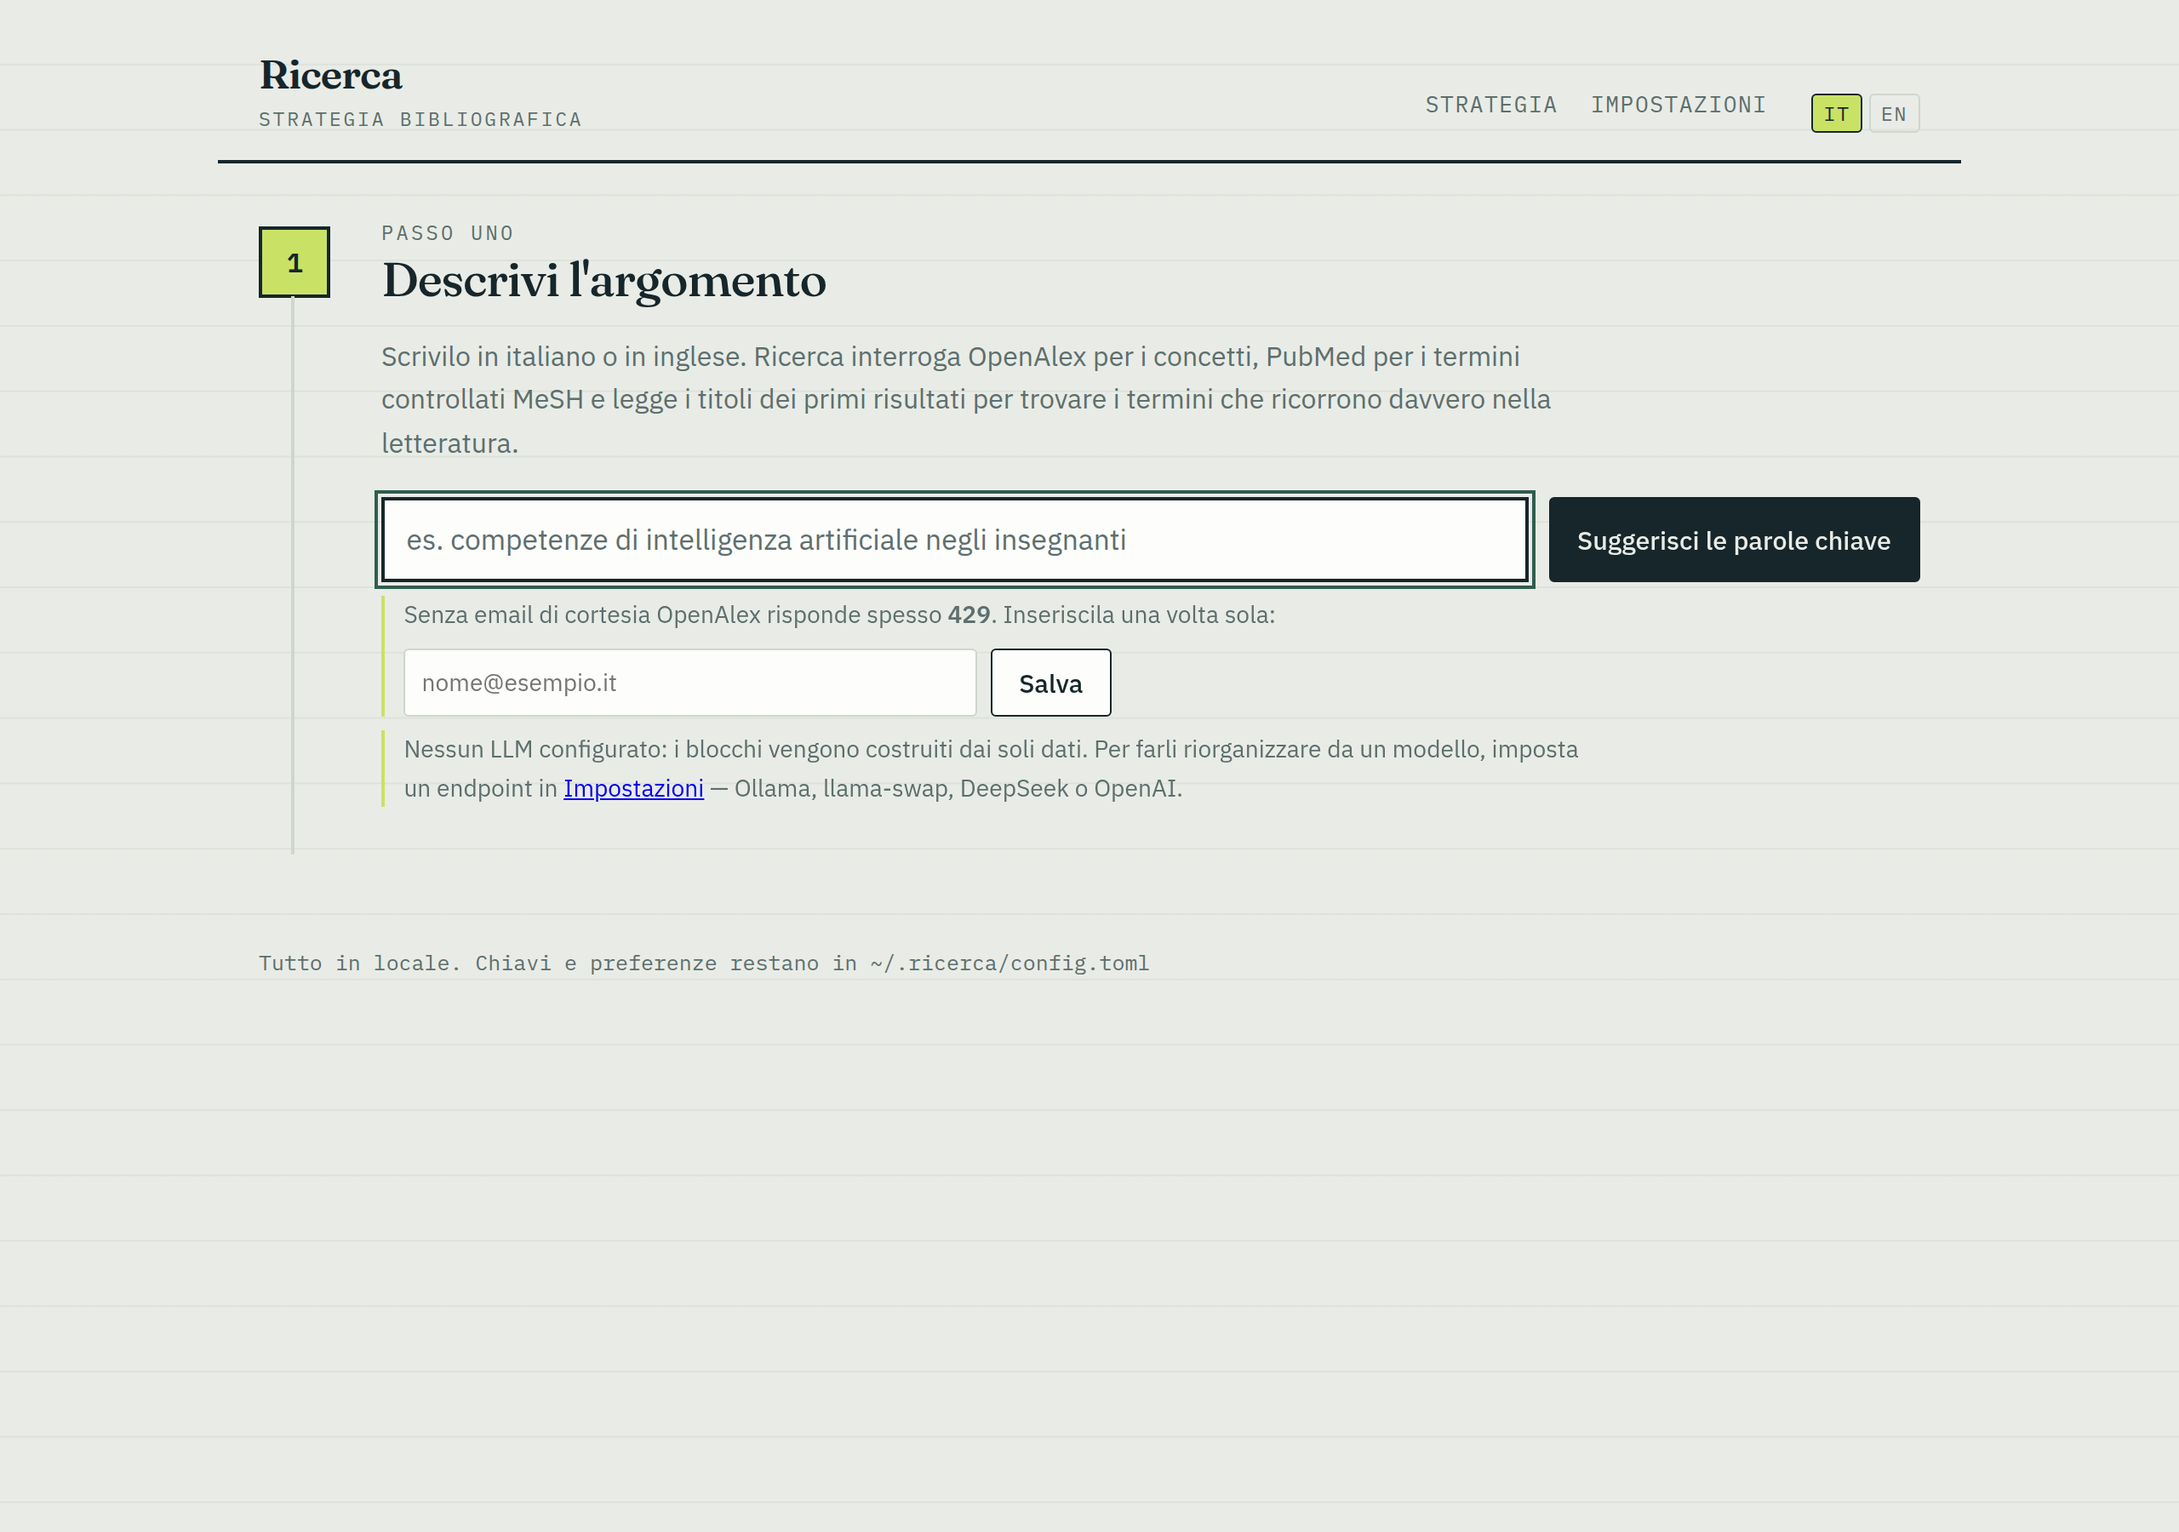
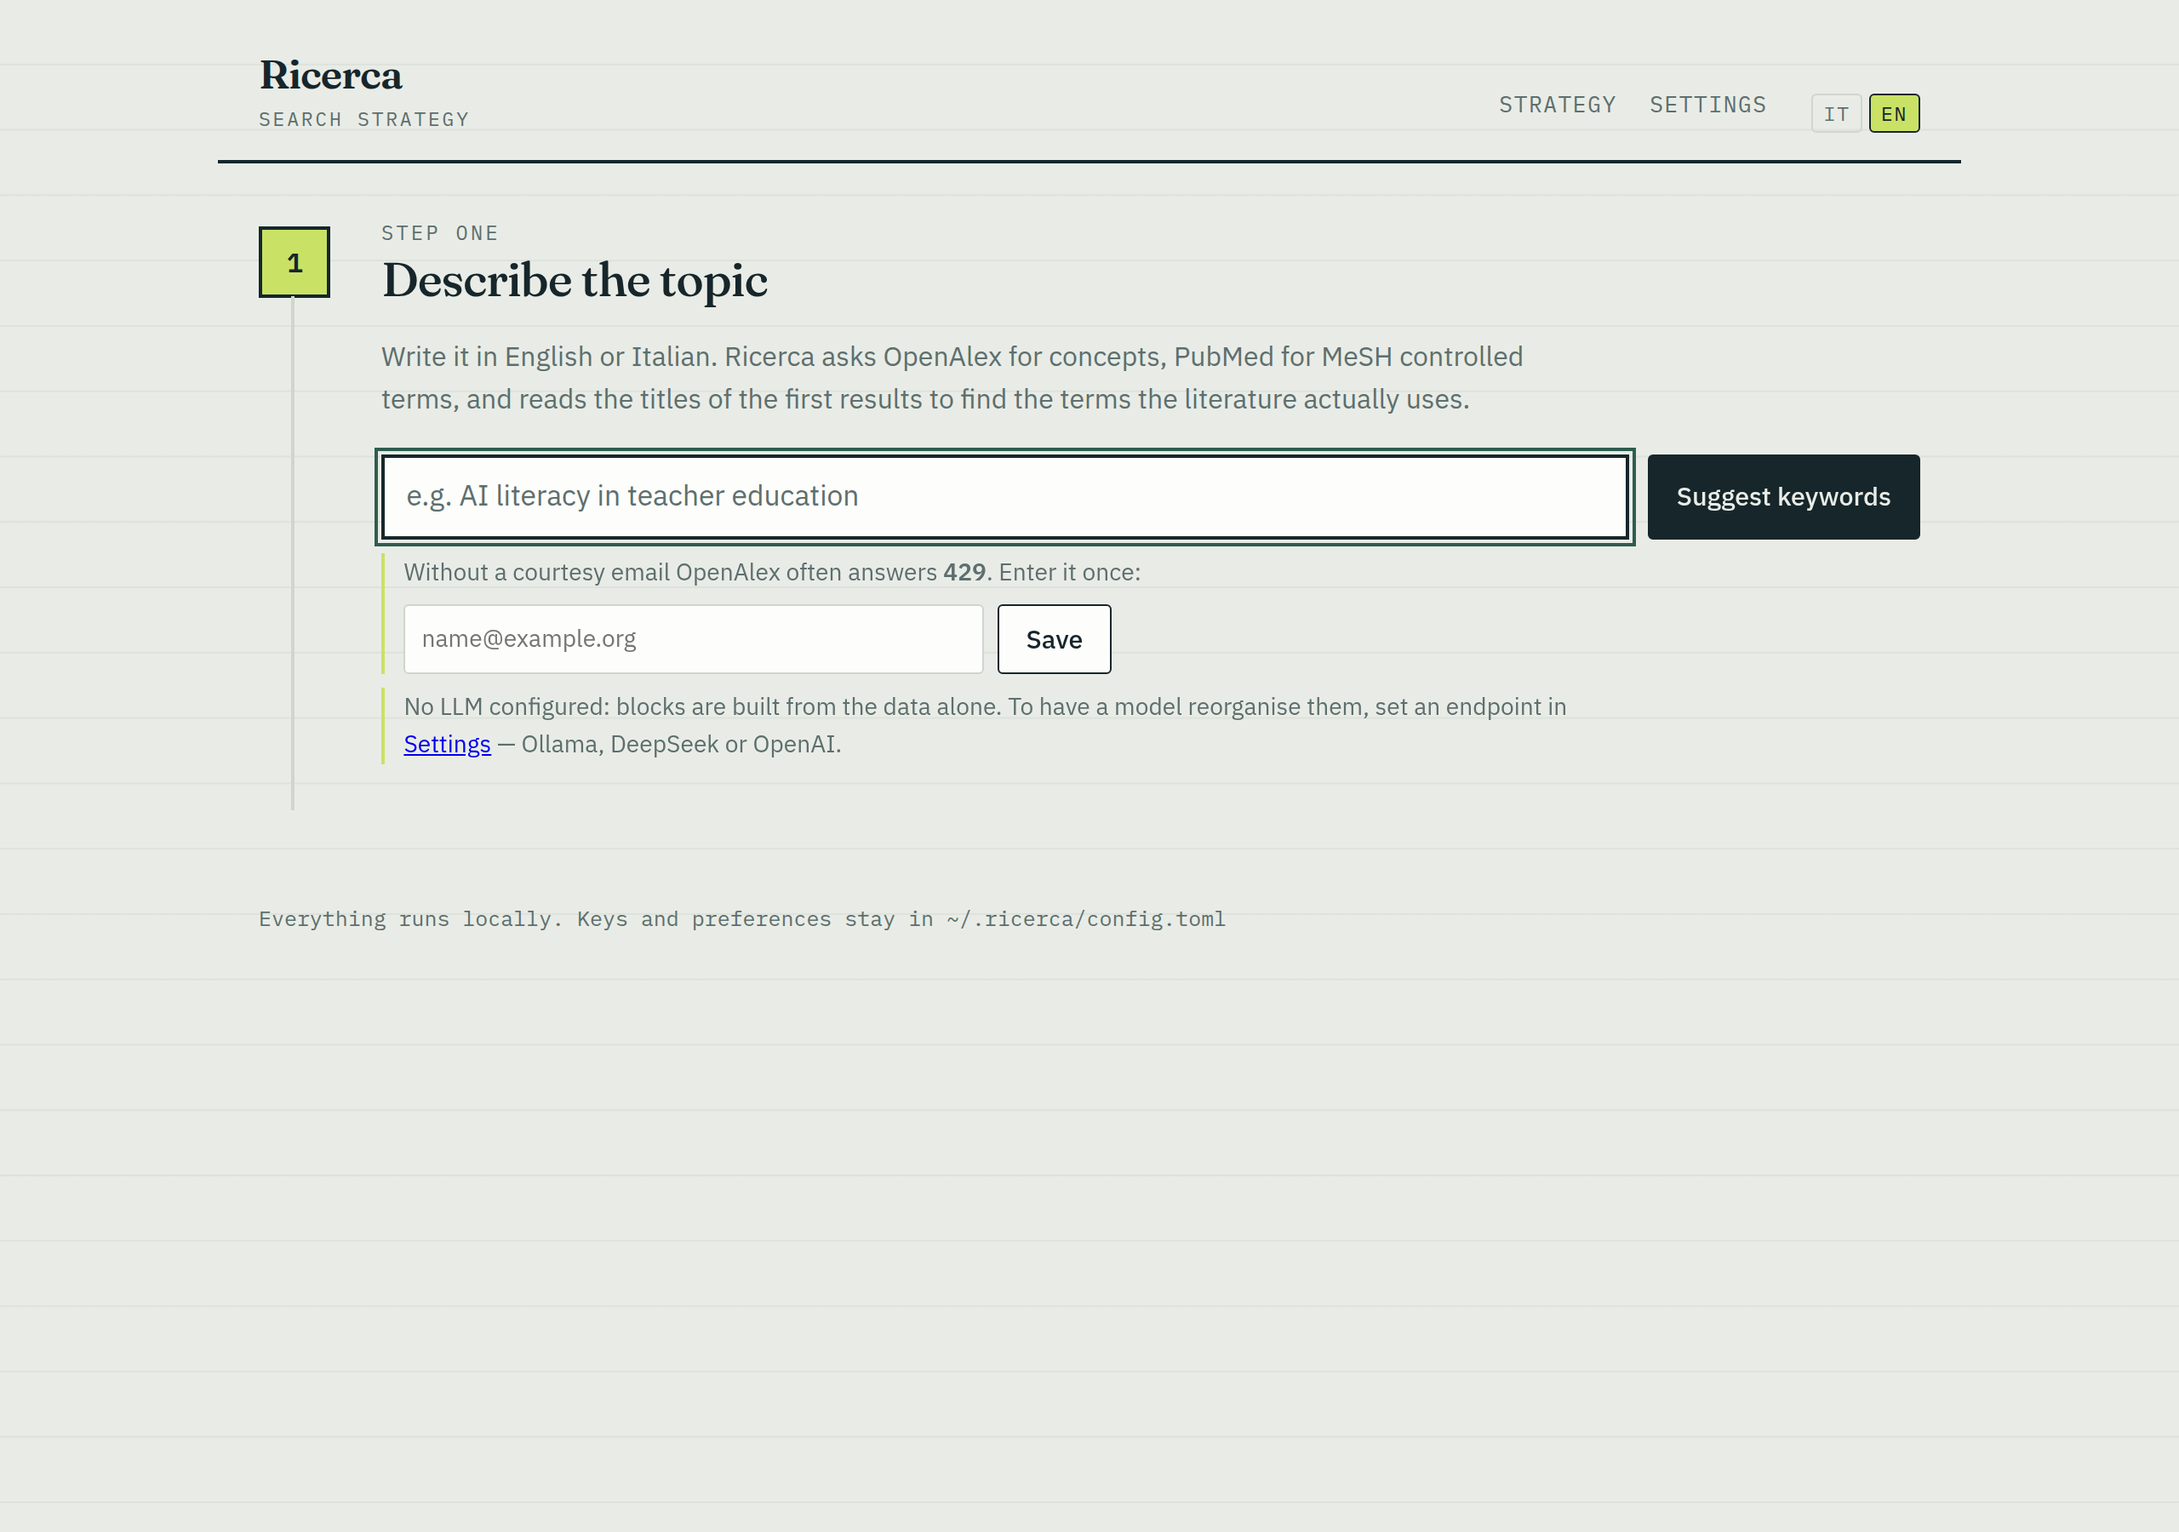
feat: inglese come lingua predefinita, via il preset llama-swap
- la configurazione nasce in inglese; l'italiano si sceglie dalla testata;
- tolto llama-swap dai preset LLM (restano Ollama, DeepSeek, OpenAI);
- tradotto quel che restava in italiano nell'interfaccia inglese: etichette
  dei blocchi costruiti dai dati, etichetta OPAC SBN, e il prompt che ora
  chiede all'LLM etichette nella lingua scelta;
- screenshot rifatti in inglese, con l'italiano come esempio del cambio
  lingua.

73 test.

diff --git a/tests/test_i18n.py b/tests/test_i18n.py
@@ -15,29 +15,29 @@ def test_le_due_lingue_hanno_le_stesse_chiavi():
     assert set(i18n.STRINGS["it"]) == set(i18n.STRINGS["en"])
 
 
-def test_normalize_ricade_sull_italiano():
-    assert i18n.normalize("en") == "en"
-    assert i18n.normalize("de") == "it"
-    assert i18n.normalize(None) == "it"
+def test_normalize_ricade_sull_inglese():
+    assert i18n.normalize("it") == "it"
+    assert i18n.normalize("de") == "en"
+    assert i18n.normalize(None) == "en"
 
 
 def test_il_cambio_lingua_persiste_nella_configurazione():
-    pagina = client.post("/lingua/en", follow_redirects=True)
-    assert "Describe the topic" in pagina.text
-    assert "Suggest keywords" in pagina.text
-    assert config_module.load().lang == "en"
-
     pagina = client.post("/lingua/it", follow_redirects=True)
     assert "Suggerisci le parole chiave" in pagina.text
+    assert config_module.load().lang == "it"
+
+    pagina = client.post("/lingua/en", follow_redirects=True)
+    assert "Describe the topic" in pagina.text
+    assert config_module.load().lang == "en"
 
 
 def test_le_impostazioni_non_azzerano_la_lingua():
-    client.post("/lingua/en")
+    client.post("/lingua/it")
     client.post("/impostazioni", data={
         "mailto": "x@y.it", "llm_base_url": "", "llm_model": "",
         "llm_api_key": "", "core_api_key": "", "s2_api_key": "", "ncbi_api_key": "",
     })
-    assert config_module.load().lang == "en"
+    assert config_module.load().lang == "it"
 
 
 async def test_i_motivi_delle_fonti_seguono_la_lingua():
@@ -61,3 +61,20 @@ async def test_le_note_dei_suggerimenti_seguono_la_lingua():
     async with httpx.AsyncClient() as http:
         result = await keywords.gather("AI literacy", http, Config(lang="en"))
     assert any("no MeSH terms" in nota for nota in result.notes)
+
+
+def test_nessuna_etichetta_di_fonte_e_solo_italiana():
+    from ricerca import sources
+
+    assert sources.BY_ID["opacsbn"].label == "OPAC SBN"
+
+
+@respx.mock
+async def test_il_prompt_dell_llm_chiede_le_etichette_nella_lingua_scelta():
+    from ricerca.llm import LLMClient
+
+    risposta = {"choices": [{"message": {"content": '{"blocks":[{"label":"L","terms":["x"]}]}'}}]}
+    route = respx.post("http://x/v1/chat/completions").mock(return_value=httpx.Response(200, json=risposta))
+    config = Config(llm_base_url="http://x/v1", llm_model="m")
+    await LLMClient(config).blocks_for("topic", [], [], [], "en")
+    assert b"in English" in route.calls[0].request.content

diff --git a/ricerca/i18n.py b/ricerca/i18n.py
@@ -7,7 +7,7 @@ generati dal codice (note, errori delle fonti).
 from __future__ import annotations
 
 LANGS = ("it", "en")
-DEFAULT = "it"
+DEFAULT = "en"
 
 STRINGS: dict[str, dict[str, str]] = {
     "it": {
@@ -31,7 +31,7 @@ STRINGS: dict[str, dict[str, str]] = {
             "Nessun LLM configurato: i blocchi vengono costruiti dai soli dati. "
             "Per farli riorganizzare da un modello, imposta un endpoint in"
         ),
-        "llm_missing_tail": "— Ollama, llama-swap, DeepSeek o OpenAI.",
+        "llm_missing_tail": "— Ollama, DeepSeek o OpenAI.",
         "mailto_active": "Email di cortesia attiva:",
         "mailto_active_tail": "— OpenAlex applica i limiti più larghi.",
         "mailto_placeholder": "nome@esempio.it",
@@ -50,6 +50,9 @@ STRINGS: dict[str, dict[str, str]] = {
             "Nessun termine dalle banche dati questa volta: i blocchi qui sotto partono "
             "dalle parole del topic. Puoi scriverli a mano e aggiornare le stringhe."
         ),
+        "block_main": "Concetto principale",
+        "block_related": "Termini correlati",
+        "llm_labels_language": "in italiano",
         "card_blocks": "Blocchi della ricerca",
         "blocks_help": (
             "Termini separati da virgola: dentro un blocco vanno in OR, i blocchi fra loro "
@@ -147,7 +150,7 @@ STRINGS: dict[str, dict[str, str]] = {
             "No LLM configured: blocks are built from the data alone. To have a model "
             "reorganise them, set an endpoint in"
         ),
-        "llm_missing_tail": "— Ollama, llama-swap, DeepSeek or OpenAI.",
+        "llm_missing_tail": "— Ollama, DeepSeek or OpenAI.",
         "mailto_active": "Courtesy email set:",
         "mailto_active_tail": "— OpenAlex grants the higher rate limits.",
         "mailto_placeholder": "name@example.org",
@@ -166,6 +169,9 @@ STRINGS: dict[str, dict[str, str]] = {
             "No terms from the databases this time: the blocks below start from the words "
             "of your topic. Edit them by hand and update the strings."
         ),
+        "block_main": "Main concept",
+        "block_related": "Related terms",
+        "llm_labels_language": "in English",
         "card_blocks": "Search blocks",
         "blocks_help": (
             "Comma-separated terms: inside a block they are OR-ed, blocks are AND-ed "

diff --git a/tests/test_app.py b/tests/test_app.py
@@ -20,8 +20,8 @@ WORKS_FULL = {"results": [{"id": "https://openalex.org/W1", "title": "Uno", "pub
 def test_home_mostra_il_form():
     page = client.get("/")
     assert page.status_code == 200
-    assert "Suggerisci le parole chiave" in page.text
-    assert "Nessun LLM configurato" in page.text
+    assert "Suggest keywords" in page.text
+    assert "No LLM configured" in page.text
 
 
 @respx.mock
@@ -36,8 +36,8 @@ def test_suggerimenti_costruisce_i_blocchi_senza_llm():
     assert page.status_code == 200
     assert "Literacy" in page.text
     assert "higher education" in page.text
-    assert "blocchi costruiti dai soli dati" in page.text
-    assert "nessuna ricerca è ancora partita" in page.text  # il passo 2 non cerca da solo
+    assert "blocks built from the data alone" in page.text
+    assert "no search has run yet" in page.text  # il passo 2 non cerca da solo
     assert "TITLE-ABS-KEY(" in page.text  # la stringa Scopus e' gia' pronta
 
 
@@ -74,14 +74,14 @@ def test_impostazioni_salva_su_file(isolated_config):
     }, follow_redirects=True)
     assert risposta.status_code == 200
     assert config_module.load().llm_model == "qwen3:8b"
-    assert "salvato in" in risposta.text
+    assert "saved to" in risposta.text
 
 
 @respx.mock
 def test_elenco_modelli_riporta_errore_leggibile():
     respx.get("http://spento/v1/models").mock(side_effect=httpx.ConnectError("connessione rifiutata"))
     page = client.post("/impostazioni/modelli", data={"llm_base_url": "http://spento/v1", "llm_api_key": ""})
-    assert "non raggiungibile" in page.text
+    assert "unreachable" in page.text
 
 
 def test_mailto_veloce_salva_e_conferma():
@@ -101,7 +101,7 @@ def test_le_chiavi_non_finiscono_nell_html():
     salva_impostazioni(core_api_key="segretissima-123")
     pagina = client.get("/impostazioni")
     assert "segretissima-123" not in pagina.text
-    assert "chiave impostata" in pagina.text
+    assert "key set" in pagina.text
 
 
 def test_un_campo_chiave_vuoto_conserva_la_chiave():

diff --git a/ricerca/llm.py b/ricerca/llm.py
@@ -1,6 +1,6 @@
 """Client per qualsiasi endpoint compatibile con l'API OpenAI.
 
-Copre Ollama (`/v1`), llama-swap, DeepSeek, OpenAI e OpenRouter senza
+Copre Ollama (`/v1`), DeepSeek, OpenAI e OpenRouter senza
 codice dedicato: cambia solo la configurazione.
 """
 
@@ -12,6 +12,7 @@ import re
 import httpx
 
 from .config import Config
+from .i18n import strings
 from .models import Block
 
 _PROMPT = """Sei un bibliotecario esperto di ricerca bibliografica.
@@ -22,7 +23,8 @@ Termini raccolti dalle banche dati:
 - termini co-occorrenti nei titoli: {cooccurring}
 - termini controllati MeSH: {mesh}
 
-Organizza la ricerca in 2-4 blocchi concettuali. Ogni blocco raccoglie
+Organizza la ricerca in 2-4 blocchi concettuali. Scrivi le etichette dei
+blocchi {lingua}. Ogni blocco raccoglie
 sinonimi e varianti (inglese e italiano) di UNO stesso concetto: i termini
 dentro un blocco andranno in OR, i blocchi fra loro in AND.
 Usa termini realmente usati nella letteratura scientifica, preferendo
@@ -56,7 +58,7 @@ class LLMClient:
             data = response.json()
         return sorted(item.get("id", "") for item in data.get("data", []) if item.get("id"))
 
-    async def blocks_for(self, topic: str, concepts, cooccurring, mesh) -> list[Block]:
+    async def blocks_for(self, topic: str, concepts, cooccurring, mesh, lang=None) -> list[Block]:
         payload = {
             "model": self.model,
             "messages": [
@@ -67,6 +69,7 @@ class LLMClient:
                         concepts=", ".join(name for name, _ in concepts[:12]) or "-",
                         cooccurring=", ".join(term for term, _ in cooccurring[:12]) or "-",
                         mesh=", ".join(mesh[:8]) or "-",
+                        lingua=strings(lang)["llm_labels_language"],
                     ),
                 }
             ],

diff --git a/tests/test_keywords.py b/tests/test_keywords.py
@@ -75,7 +75,7 @@ async def test_gather_avvisa_quando_mancano_i_mesh():
         return_value=httpx.Response(200, json={"esearchresult": {}})
     )
     async with httpx.AsyncClient() as client:
-        result = await keywords.gather("topic in italiano", client, Config())
+        result = await keywords.gather("topic in italiano", client, Config(lang="it"))
     assert any("MeSH" in nota and "inglese" in nota for nota in result.notes)
 
 
@@ -92,5 +92,5 @@ async def test_nota_leggibile_quando_openalex_limita_le_richieste():
     respx.get(url__startswith=f"{keywords.OPENALEX}/works").mock(return_value=httpx.Response(200, json=WORKS))
     respx.get(url__startswith=f"{keywords.EUTILS}/esearch.fcgi").mock(return_value=httpx.Response(200, json=MESH))
     async with httpx.AsyncClient() as client:
-        result = await keywords.gather("AI literacy", client, Config())
+        result = await keywords.gather("AI literacy", client, Config(lang="it"))
     assert any("email di cortesia" in nota for nota in result.notes)

diff --git a/ricerca/strategy.py b/ricerca/strategy.py
@@ -2,6 +2,7 @@
 
 from __future__ import annotations
 
+from .i18n import strings
 from .keywords import words_of
 from .models import Block, Strategy, Suggestions
 
@@ -32,7 +33,7 @@ def flat_terms(strategy: Strategy, limit: int = 8) -> str:
     return " ".join(terms[:limit])
 
 
-def heuristic_strategy(suggestions: Suggestions) -> Strategy:
+def heuristic_strategy(suggestions: Suggestions, lang: str | None = None) -> Strategy:
     """Strategia costruita senza LLM, solo dai dati raccolti."""
 
     topic = suggestions.topic.strip()
@@ -54,9 +55,10 @@ def heuristic_strategy(suggestions: Suggestions) -> Strategy:
         if len(related) == 6:
             break
 
-    blocks = [Block("Concetto principale", primary)]
+    t = strings(lang)
+    blocks = [Block(t["block_main"], primary)]
     if related:
-        blocks.append(Block("Termini correlati", related))
+        blocks.append(Block(t["block_related"], related))
     return Strategy(blocks=blocks, mesh=list(suggestions.mesh))
 
 

diff --git a/ricerca/app.py b/ricerca/app.py
@@ -84,11 +84,15 @@ async def suggerimenti(request: Request, topic: str = Form(...)):
         headers={"User-Agent": search.USER_AGENT}, follow_redirects=True
     ) as client:
         suggestions = await keywords.gather(topic, client, config)
-        strategy = heuristic_strategy(suggestions)
+        strategy = heuristic_strategy(suggestions, config.lang)
         if config.llm_enabled:
             try:
                 blocks = await LLMClient(config, client).blocks_for(
-                    topic, suggestions.concepts, suggestions.cooccurring, suggestions.mesh
+                    topic,
+                    suggestions.concepts,
+                    suggestions.cooccurring,
+                    suggestions.mesh,
+                    config.lang,
                 )
                 strategy = Strategy(blocks=blocks, mesh=suggestions.mesh)
                 suggestions.llm_used = True

diff --git a/tests/test_strategy.py b/tests/test_strategy.py
@@ -68,3 +68,12 @@ def test_heuristic_non_ripete_le_parole_del_topic_fra_i_correlati():
     result = heuristic_strategy(suggestions)
     assert "intelligenza" in result.blocks[0].terms
     assert result.blocks[1].terms == ["formazione docenti"]
+
+
+def test_le_etichette_dei_blocchi_seguono_la_lingua():
+    suggestions = Suggestions(topic="AI literacy", cooccurring=[("higher education", 4)])
+    assert [b.label for b in heuristic_strategy(suggestions, "en").blocks] == [
+        "Main concept",
+        "Related terms",
+    ]
+    assert heuristic_strategy(suggestions, "it").blocks[0].label == "Concetto principale"

diff --git a/ricerca/config.py b/ricerca/config.py
@@ -16,7 +16,6 @@ CONFIG_FILE = CONFIG_DIR / "config.toml"
 
 PRESETS = {
     "ollama": "http://localhost:11434/v1",
-    "llama-swap": "http://localhost:8080/v1",
     "deepseek": "https://api.deepseek.com/v1",
     "openai": "https://api.openai.com/v1",
 }
@@ -24,7 +23,7 @@ PRESETS = {
 
 @dataclass
 class Config:
-    lang: str = "it"
+    lang: str = "en"
     mailto: str = ""
     llm_base_url: str = ""
     llm_model: str = ""

diff --git a/tests/test_sources.py b/tests/test_sources.py
@@ -156,7 +156,7 @@ async def test_semantic_scholar_spiega_il_429():
         try:
             await sources.BY_ID["semanticscholar"].search(client, "q", 5, Config())
         except RuntimeError as exc:
-            assert "chiave" in str(exc)
+            assert "key" in str(exc)
         else:
             raise AssertionError("doveva sollevare un errore")
 

diff --git a/tests/test_search.py b/tests/test_search.py
@@ -48,5 +48,5 @@ async def test_una_fonte_rotta_non_ferma_le_altre(strategy, config):
 
 async def test_fonte_senza_chiave_segnala_il_motivo(strategy, config):
     results, works = await search.run(strategy, ["core"], 5, config)
-    assert "chiave" in results[0].error
+    assert "key" in results[0].error
     assert works == []

diff --git a/ricerca/sources/opac_sbn.py b/ricerca/sources/opac_sbn.py
@@ -26,7 +26,7 @@ TIMEOUT = 30
 
 class OpacSbn(Source):
     id = "opacsbn"
-    label = "OPAC SBN (libri)"
+    label = "OPAC SBN"
     homepage = "https://opac.sbn.it"
 
     def render_query(self, strategy: Strategy) -> str:
